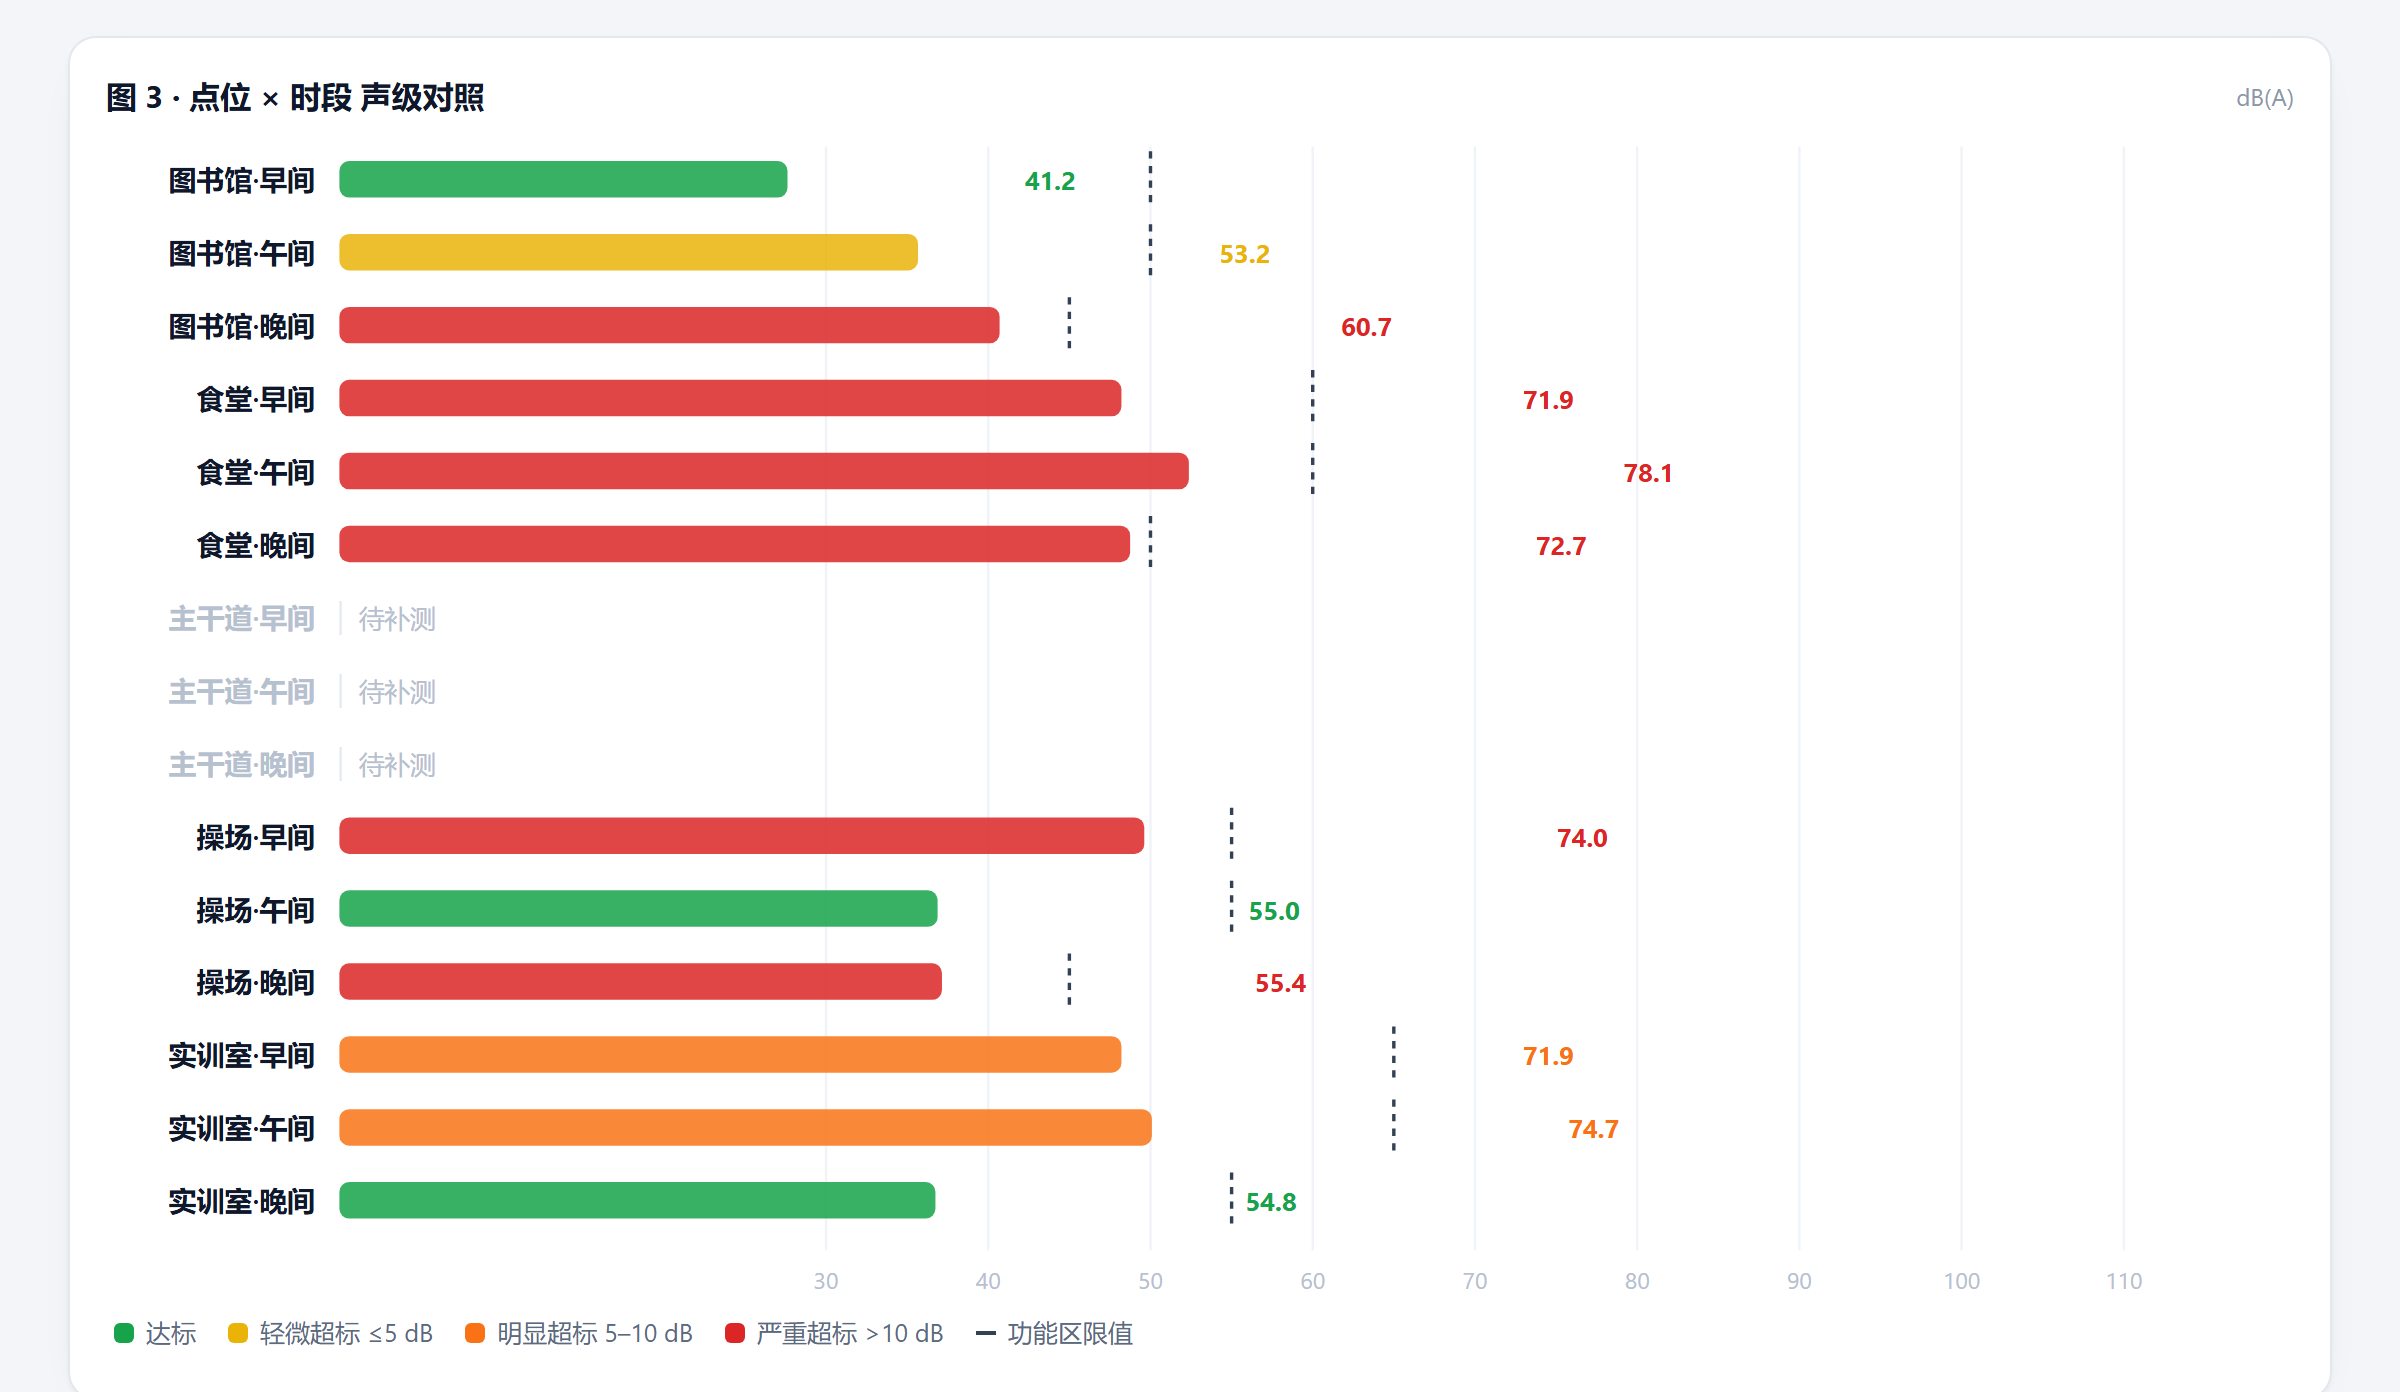
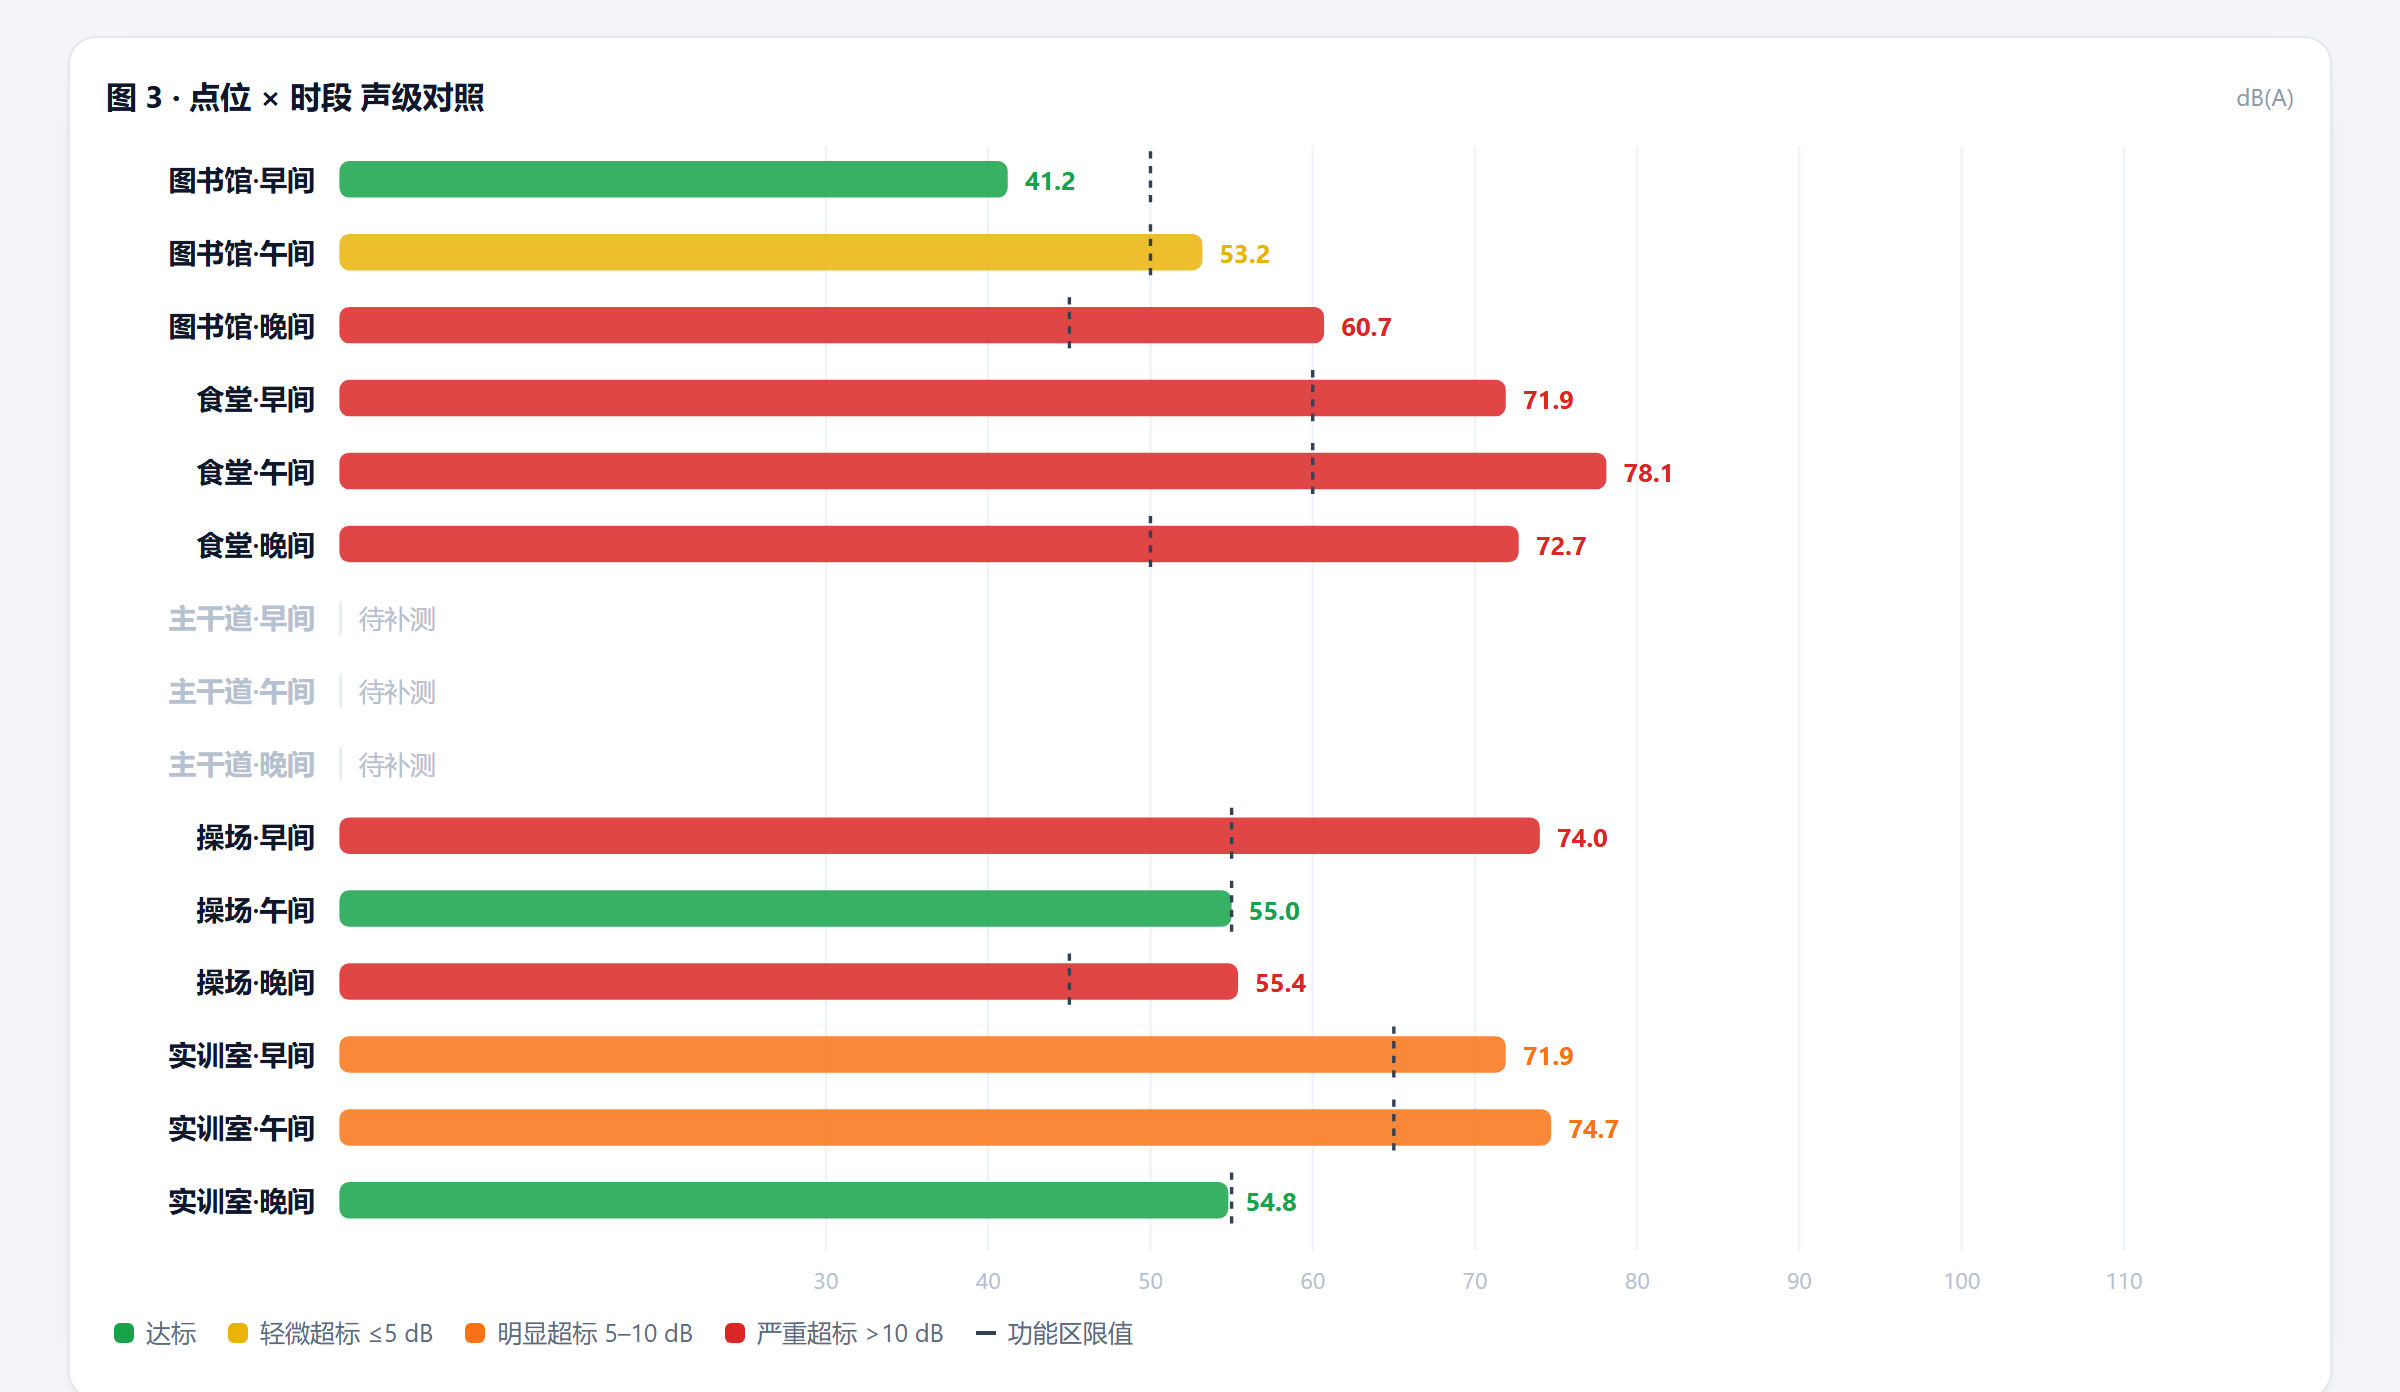
fix(课题06): 修正条形图为静态宽度，避免动画中途截断；更新配图

Changed region(s): [[0.375, 0.5869, 0.6562, 0.8958], [0.3125, 0.0927, 0.6875, 0.4016]]

diff --git a/校园昼夜声学噪声地图测绘/index.html b/校园昼夜声学噪声地图测绘/index.html
@@ -701,8 +701,7 @@ legend($("#legend1"), ser1, "leaq"); legend($("#legend2"), ser2, "peak");
     }
     const c = colorFor(r.leaq - r.limit);
     const w = x(r.leaq) - padL;
-    el("rect", { x: padL, y: y + 6, width: 0, height: 15, rx: 4, fill: c, opacity: .85 }, svg)
-      .appendChild(el("animate", { attributeName: "width", from: 0, to: w, dur: "0.6s", fill: "freeze" }));
+    el("rect", { x: padL, y: y + 6, width: w, height: 15, rx: 4, fill: c, opacity: .85 }, svg);
     // 限值线
     el("line", {
       x1: x(r.limit), y1: y + 2, x2: x(r.limit), y2: y + 25,

diff --git a/校园昼夜声学噪声地图测绘/site/template.html b/校园昼夜声学噪声地图测绘/site/template.html
@@ -701,8 +701,7 @@ legend($("#legend1"), ser1, "leaq"); legend($("#legend2"), ser2, "peak");
     }
     const c = colorFor(r.leaq - r.limit);
     const w = x(r.leaq) - padL;
-    el("rect", { x: padL, y: y + 6, width: 0, height: 15, rx: 4, fill: c, opacity: .85 }, svg)
-      .appendChild(el("animate", { attributeName: "width", from: 0, to: w, dur: "0.6s", fill: "freeze" }));
+    el("rect", { x: padL, y: y + 6, width: w, height: 15, rx: 4, fill: c, opacity: .85 }, svg);
     // 限值线
     el("line", {
       x1: x(r.limit), y1: y + 2, x2: x(r.limit), y2: y + 25,
